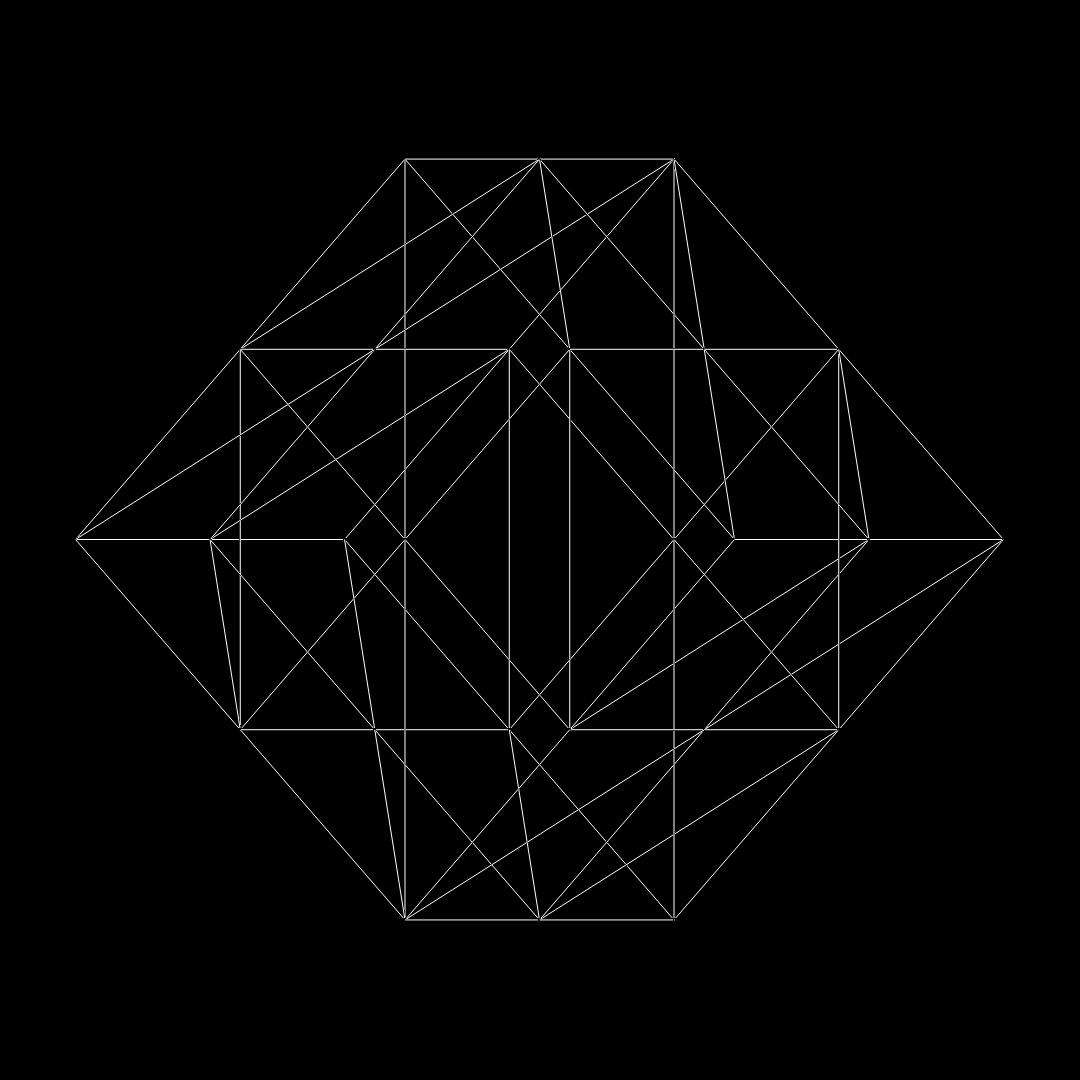
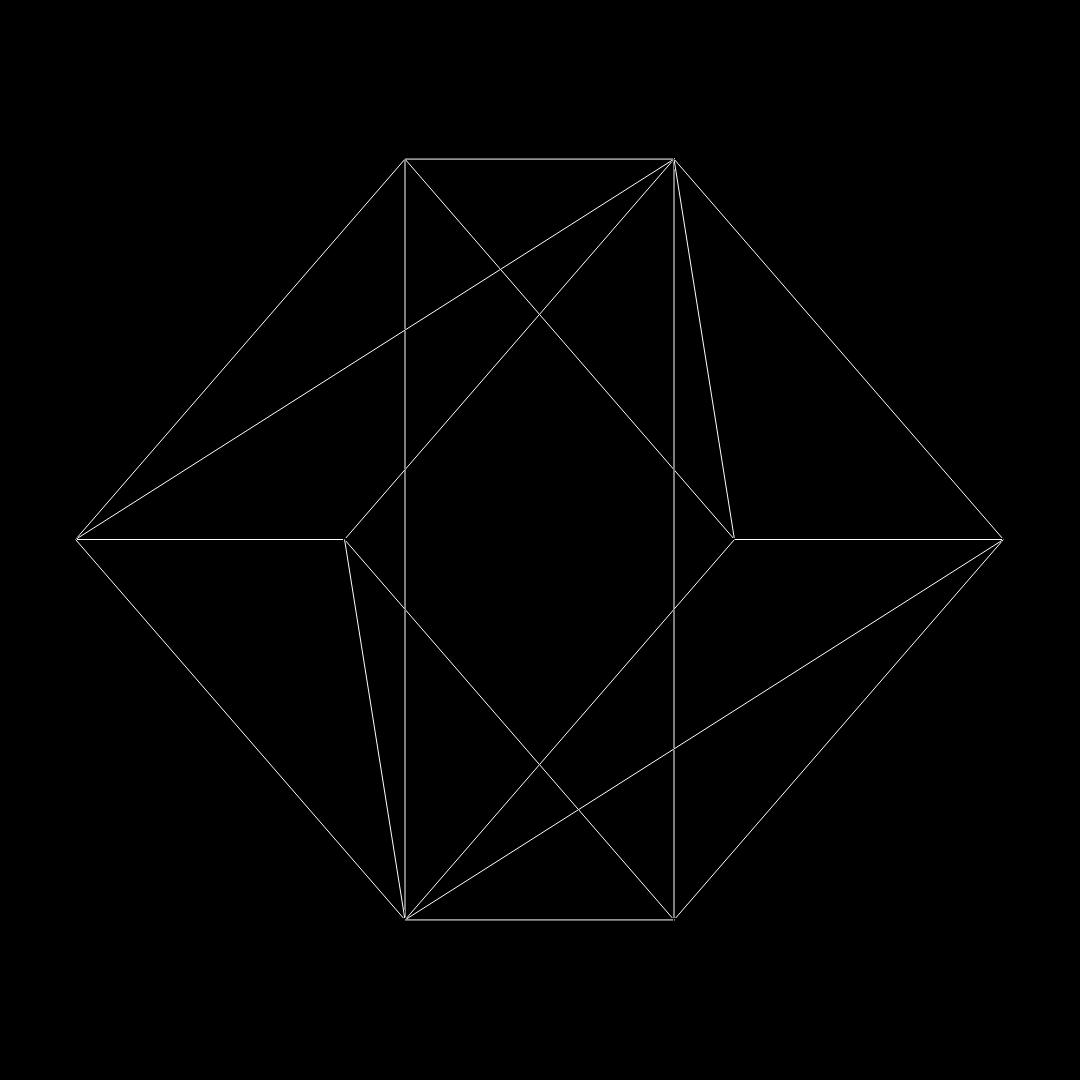
most of the viewing system

diff --git a/a2/ViewSystem.py b/a2/ViewSystem.py
@@ -1,0 +1,77 @@
+from math import *
+from mathUtil import *
+
+class ViewSystem:
+
+    def __init__(self, elevation_angle, rotation_angle, radial_distance):
+        # assume these are all given in degrees and must be converted to radians
+        self.elevation_angle = radians(float(elevation_angle)) 
+        self.rotation_angle = radians(float(rotation_angle))
+        self.radial_distance = radial_distance # not an angle
+
+        self.d = 0 # near plane distance
+        self.f = 0 # far plane distnace
+        self.h = 0 # height / width of view plane
+
+        self.near_plane = None # 4-tuple of 3-tuples
+        # NEAR PLANE
+        # (
+        #    ( h, -h, d), top left corner
+        #    ( h,  h, d), top right corner
+        #    (-h,  h, d), bottom right corner
+        #    (-h, -h, d)  bottom left corner
+        # )
+
+        self.far_plane = None  # 4-tuple of 3-tuples
+
+
+
+        self.camera_pos = (
+            radial_distance * cos(elevation_angle) * cos(rotation_angle),
+            radial_distance * cos(elevation_angle) * sin(rotation_angle),
+            radial_distance * sin(elevation_angle)
+        )
+
+        # this might move
+        # build vector CO->
+        v_CO = (
+            0 - self.camera_pos[0],
+            0 - self.camera_pos[1], 
+            0 - self.camera_pos[2]
+        ) # invert this if line is polar opposite direction
+        magnitude = sqrt(v_CO[0]*v_CO[0] + v_CO[1]*v_CO[1] + v_CO[2]*v_CO[2]) # get the magnitude / norm
+        # build unit vectors for new basis
+        self.uv_N = (v_CO[0] / magnitude, v_CO[1] / magnitude, v_CO[2] / magnitude) # unit vector N
+        self.uv_V = cross_product( uv_N, (0,1,0) ) # unit vector V
+        self.uv_U = cross_product( uv_N, uv_V )    # unit vector U
+
+        # do I define my view volume relative to my world frame or my view frame?
+
+    def build_view_volume(self, near_plane, far_plane, width):
+        self.d = near_plane
+        self.f = far_plane
+        self.h = width
+
+        self.near_plane = (
+           ( self.h, -self.h, self.d), 
+           ( self.h,  self.h, self.d), 
+           (-self.h,  self.h, self.d),
+           (-self.h, -self.h, self.d)
+        )
+
+        slope = float(self.h) / float(self.d)
+        h_at_f = slope * f
+
+        self.far_plane = (
+           ( h_at_f, -h_at_f, self.f), 
+           ( h_at_f,  h_at_f, self.f), 
+           (-h_at_f,  h_at_f, self.f),
+           (-h_at_f, -h_at_f, self.f)
+        )
+
+        
+
+
+    
+
+

diff --git a/a2/main.py b/a2/main.py
@@ -13,7 +13,7 @@ def main():
     # randy.render(polyCube.mesh, 512, "polyCube.jpg")
 
     triangleCube = Cube()
-    triangleCube.build_triangle_mesh(24)
+    triangleCube.build_triangle_mesh(0)
 
     cubeMesh = triangleCube.mesh
     cubeMesh.add_transformation(TransformationFactory.scale(0.5,0.5,0.5))

diff --git a/a2/mathUtil.py b/a2/mathUtil.py
@@ -1,0 +1,11 @@
+import * from math
+
+# returns a 3-tuple
+def cross_product(v1, v2):
+    # x=0, y=1, z=2
+    return (
+        v1[1]*v2[2] - v2[1]*v1[2], # x = y1z2 - y2z1
+        v1[0]*v2[2] - v2[0]*v1[2], # y = x1z2 - x2z1
+        v1[0]*v2[1] - v2[0]*v1[1]  # z = x1y2 - x2y1
+    )
+
